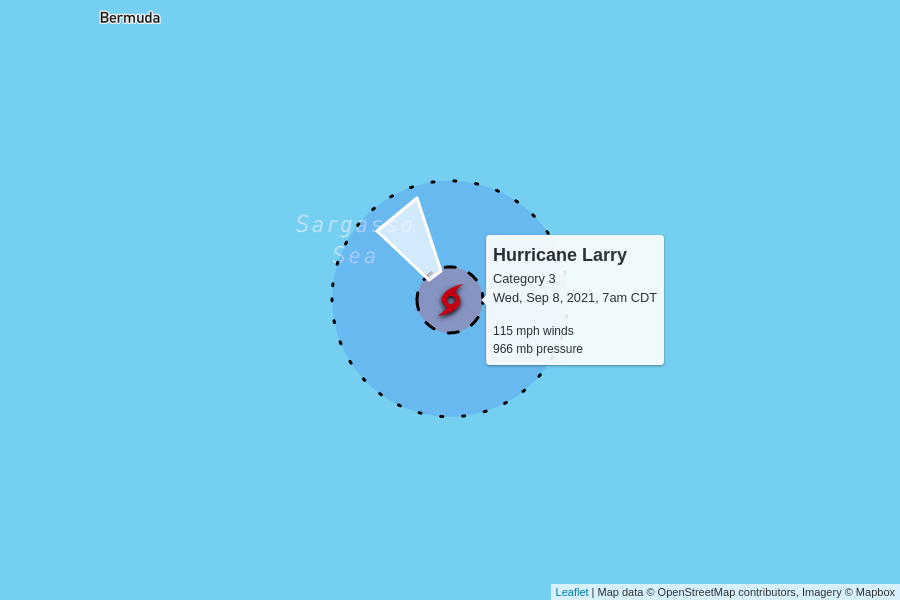
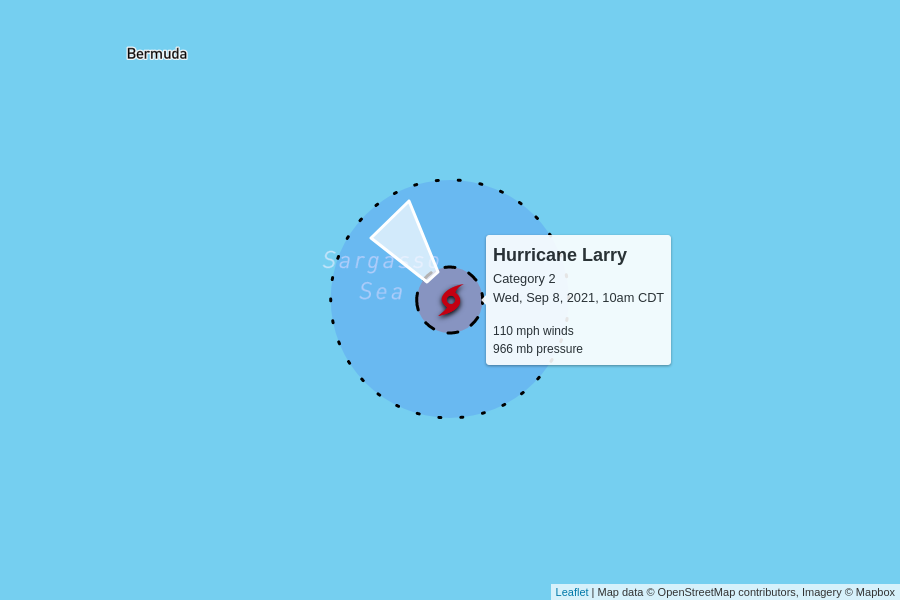
automatic update

diff --git a/docs/index.html b/docs/index.html
@@ -97,10 +97,10 @@
 
     <table>
       <tr>
-        <td colspan="6" class="storm category-3">
+        <td colspan="6" class="storm category-2">
           <h2>
-            Hurricane Larry - Category 3
-            <p class="updated">last updated <span data-time>2021-09-08T12:00:00.000Z</span></p>
+            Hurricane Larry - Category 2
+            <p class="updated">last updated <span data-time>2021-09-08T15:00:00.000Z</span></p>
           </h2>
         </td>
       </tr>
@@ -115,12 +115,12 @@
       </tr>
       <tr>
         <td class="spacer"></td>
-        <td>115 mph</td>
+        <td>110 mph</td>
         <td>966 mb</td>
         <td>
-          10 mph to the northwest
+          13 mph to the northwest
           <br/>
-          <span style="display: inline-block; font-size: 1.5em; transform: rotate(325deg);">↑</span>
+          <span style="display: inline-block; font-size: 1.5em; transform: rotate(320deg);">↑</span>
         </td>
         <td><a href="https://raw.githubusercontent.com/mgwalker/atlantic-hurricanes/main/data/csv/AL122021.csv">AL122021.csv</a></td>
         <td><a href="https://www.nhc.noaa.gov/archive/2021/LARRY.shtml?">NHC advisories</a></td>
